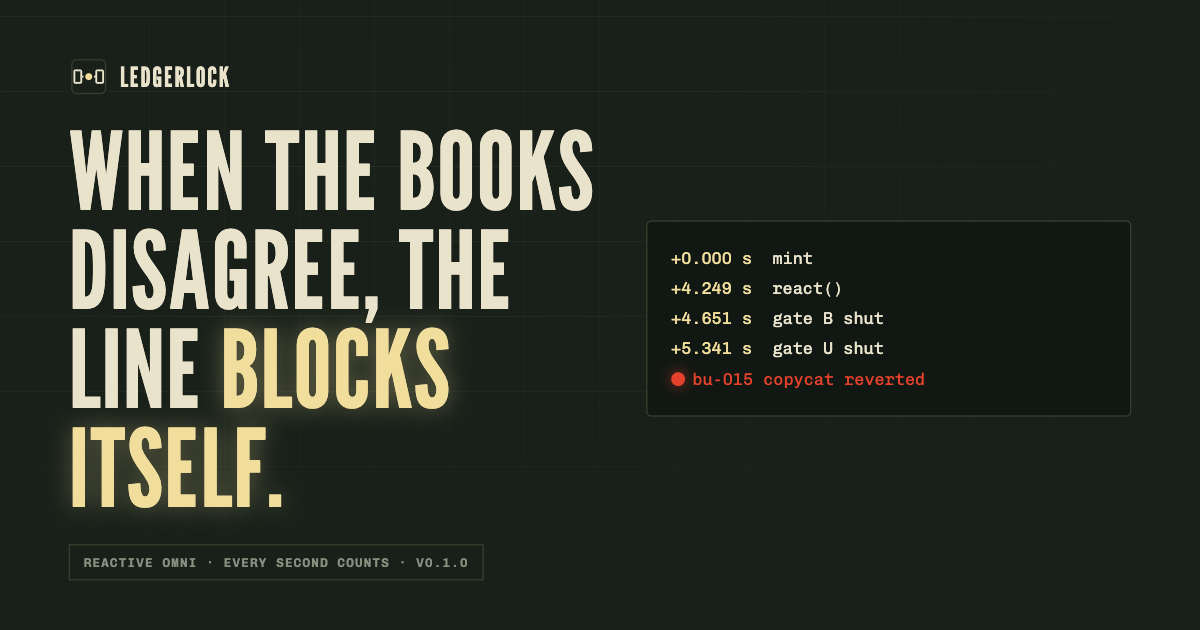
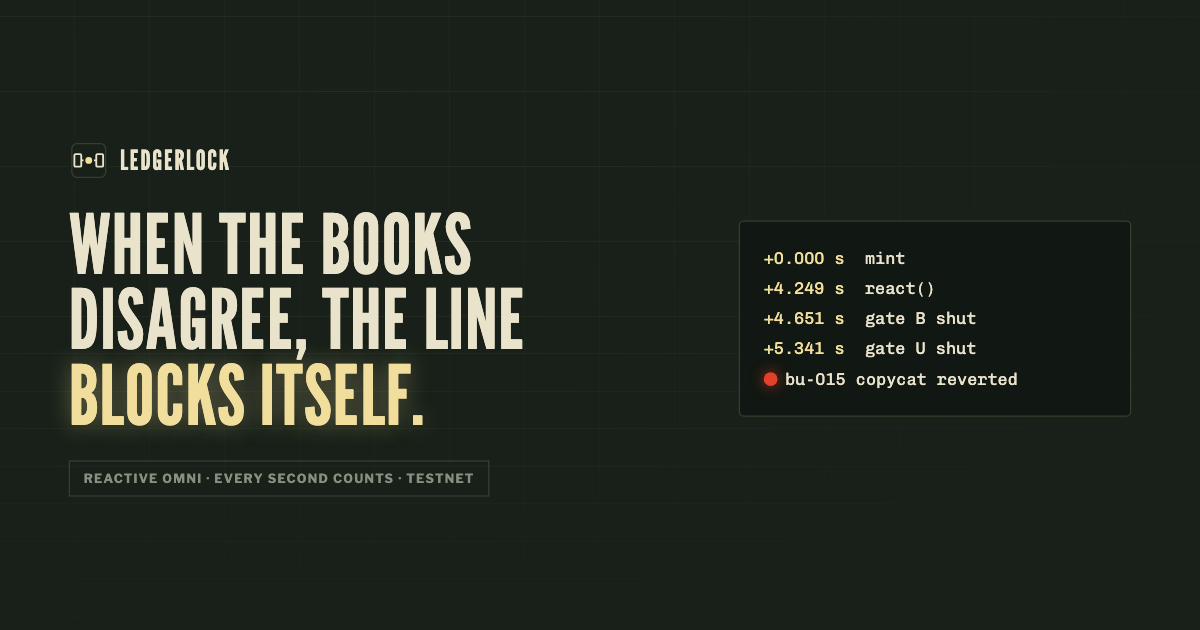
docs: README in the canonical judge-facing layout (Live, For Judges, Deck CTAs; CI + Release badges; Testing & CI with the six stages), current test counts (113 + 29 Solidity, 80 TS, 100% coverage) on README, DEMO, JUDGE and the landing; social card without a version that would go stale

diff --git a/docs/index.html b/docs/index.html
@@ -292,7 +292,7 @@ footer a.ver:hover{color:var(--ink)}
       <a class="btn" href="pitch/">Pitch deck</a>
       <a class="btn" href="status/">Live status page</a>
     </div>
-    <p class="proof rise d4"><span>testnet</span><span>labelled fixture bridge</span><span>no wallet needed to verify</span><span>846 triple rows committed</span><span>83 Foundry tests</span></p>
+    <p class="proof rise d4"><span>testnet</span><span>labelled fixture bridge</span><span>no wallet needed to verify</span><span>846 triple rows committed</span><span>113 Foundry tests</span></p>
 
     <figure class="board rise d5" id="board" aria-labelledby="board-cap">
       <div class="board-head">
@@ -370,7 +370,7 @@ footer a.ver:hover{color:var(--ink)}
 {"attacks":100,"detection":{"n":100,"p50":3.873,"p95":4.391,"max":6.545,"min":2.036},"pause_both":{"n":100,"p50":5.92,"p95":8.245,"max":10.97,"min":3.851},"strict_false":0}
 
 <span class="p">$</span> forge test
-Suite result: ok. 83 passed; 0 failed; 0 skipped<span class="cursor"></span></pre>
+Ran 6 test suites: 113 tests passed, 0 failed, 0 skipped (113 total tests)<span class="cursor"></span></pre>
       </div>
     </div>
     <div class="reg-scroll" tabindex="0" role="region" aria-label="Train register for run bu-015">

diff --git a/docs/judge.html b/docs/judge.html
@@ -202,7 +202,7 @@ footer .ver{font-family:var(--font-data);margin-left:auto}
         <tr><td>Guarded by Ledgerlock</td><td class="n">1</td><td class="n">1,000</td><td class="n">0 (reverted)</td></tr>
       </tbody>
     </table></div>
-    <p class="sub" style="margin-top:14px">The arms use different copycat schedules, so issuance illustrates the effect rather than a like-for-like rate. Tests: <span data-tests>110 contract tests and 29 reactive-kit Solidity tests (100% lines, statements, branches and functions on <code>src/</code> and the kit), 80 TypeScript unit tests at 100%, and one property test that checks 262,144 random queue steps</span>.</p>
+    <p class="sub" style="margin-top:14px">The arms use different copycat schedules, so issuance illustrates the effect rather than a like-for-like rate. Tests: <span data-tests>113 contract tests and 29 reactive-kit Solidity tests (100% lines, statements, branches and functions on <code>src/</code> and the kit), 80 TypeScript unit tests at 100%, and one property test that checks 262,144 random queue steps</span>.</p>
   </div>
 </section>
 

diff --git a/README.md b/README.md
@@ -6,6 +6,9 @@
 
   <br/>
 
+  [![Live Demo](https://img.shields.io/badge/🚀_Live-Demo-06b6d4?style=for-the-badge)](https://edycutjong.github.io/ledgerlock/)
+  [![For Judges](https://img.shields.io/badge/⚖_For-Judges-e4412a?style=for-the-badge)](https://edycutjong.github.io/ledgerlock/judge)
+  [![Pitch Deck](https://img.shields.io/badge/📊_Pitch-Deck-f59e0b?style=for-the-badge)](https://edycutjong.github.io/ledgerlock/pitch/)
   [![Built for Reactive Omni Buildathon](https://img.shields.io/badge/DoraHacks-Reactive_Omni_Buildathon-8b5cf6?style=for-the-badge)](https://dorahacks.io/hackathon/reactive-omni-buildathon/detail)
 
   <br/>
@@ -15,6 +18,9 @@
   ![TypeScript](https://img.shields.io/badge/TypeScript-3178C6?style=flat&logo=typescript&logoColor=white)
   [![License](https://img.shields.io/badge/License-MIT-yellow)](LICENSE)
   [![CI](https://github.com/edycutjong/ledgerlock/actions/workflows/ci.yml/badge.svg)](https://github.com/edycutjong/ledgerlock/actions/workflows/ci.yml)
+  [![Release](https://img.shields.io/github/v/release/edycutjong/ledgerlock?sort=semver)](https://github.com/edycutjong/ledgerlock/releases/latest)
+
+  <p><b>Judging?</b> Start at <a href="https://edycutjong.github.io/ledgerlock/judge">/judge</a> (<a href="JUDGE.md">JUDGE.md</a>): one forged mint, one Lasna <code>react()</code>, both gates paused, the copycat reverted, in six explorer links. No wallet needed.</p>
 
 </div>
 
@@ -81,8 +87,9 @@ Every pause is a triple: origin transaction → Lasna `react()` → gate callbac
 
 | Metric | Value | Source |
 |---|---|---|
-| Foundry tests | 83 passing | `forge test` |
-| reactive-kit tests | 23 passing (Solidity), 6 passing (TS) | `FOUNDRY_PROFILE=kit forge test`, `pnpm test:ts` |
+| Foundry tests | 113 passing; `src/` at 100% lines, statements, branches and functions | `forge test`, `pnpm coverage:sol` |
+| reactive-kit tests | 29 passing (Solidity), 80 passing (TS); both at 100% coverage | `FOUNDRY_PROFILE=kit forge test`, `pnpm test:coverage` |
+| Property test (queue head never rests on a cleared entry) | 262,144 random steps (4,096 runs × 64 ops) | `testFuzz_queue_head_never_rests_on_a_cleared_entry` |
 | Detection (mint mined → Lasna react seen) | p50 3.873 s · p95 4.391 s · max 6.545 s (n=100) | `evidence/frozen3-bench-summary.md` |
 | Pause, Unichain gate | p50 5.917 s · p95 8.245 s (n=100) | same |
 | Pause, Base gate | p50 3.378 s · p95 7.079 s (n=100) | same |
@@ -128,22 +135,46 @@ Lasna's `react()` is polled on a different RPC than the gates, so its first-seen
 ### Installation
 ```bash
 git submodule update --init --recursive && pnpm install
-forge test                       # 83 contract tests (Reactive Test Lib)
+forge test                       # 113 contract tests (Reactive Test Lib)
 pnpm bench:summary               # regenerate the numbers from evidence/frozen3-bench-runs.csv
 ```
 
 Re-running the live bench needs your own funded testnet keys; steps are in [DEMO.md](DEMO.md).
+
+## 🧪 Testing & CI
+
+```bash
+forge test && FOUNDRY_PROFILE=kit forge test   # 113 + 29 Solidity tests on the Reactive Test Lib
+pnpm coverage:sol                               # fails below 100% on src/ or packages/reactive-kit/src
+pnpm typecheck && pnpm test:coverage            # 80 TypeScript unit tests, 100% thresholds enforced
+pnpm e2e                                        # Playwright: landing, /judge, deck, status page, release tag, 375/768/1440 px
+```
+
+Every push and pull request runs a six-stage pipeline (`.github/workflows/ci.yml`):
+
+| Stage | What runs |
+|---|---|
+| 1 · Quality | `forge fmt --check test/`, `forge build --sizes`, both test profiles, the 100% coverage gate; `tsc`, vitest at 100%, and `pnpm bench:summary` must regenerate the committed summary byte for byte |
+| 2 · Security | gitleaks over every commit, Slither (`--fail-high`, two findings triaged in [SECURITY.md](SECURITY.md)), `pnpm audit` |
+| 3 · Build | the Pages site with the latest release tag stamped in and every local link checked |
+| 4 · E2E | Playwright on desktop and mobile Chrome |
+| 5 · Performance | Lighthouse CI (advisory) |
+| 6 · Deploy gate | main only, needs every stage; `pages.yml` then deploys `docs/` |
+
+CodeQL scans the TypeScript and the workflows; Dependabot (grouped, monthly, majors and `lib/` submodules excluded so the deployed bytecode keeps matching the source), secret scanning and push protection are on. The coverage work added tests only: `git diff e425c78 -- src packages/reactive-kit/src` is empty, so the frozen3 contracts still match this source.
 
 ## 📁 Project Structure
 
 | Path | What |
 |---|---|
 | `src/` | `LedgerlockReactive.sol`, `Gate.sol`, `DrillBeacon.sol`, `fixture/` (route A), `probe/` |
-| `packages/reactive-kit/` | shared Omni building blocks, copied unchanged from the same author's Heirloom repo (MIT; see its README) |
+| `packages/reactive-kit/` | shared Omni building blocks; the Solidity and TypeScript sources are copied unchanged from the same author's Heirloom repo (MIT; see its README), the tests beside them were added here |
 | `script/`, `scripts/` | deploy and trigger shell scripts; bench, summary and join scripts |
 | `evidence/` | committed raw rows from live runs; start with `evidence/README.md` |
-| `docs/` | landing page (`index.html`), pitch deck (`pitch/`), read-only status page (`status/`), architecture diagram |
+| `docs/` | landing page (`index.html`), judge page (`judge.html`), pitch deck (`pitch/`), read-only status page (`status/`), architecture diagram |
 | `deployments/testnet.json` | per-route addresses |
+| `test/`, `e2e/` | Foundry tests (Reactive Test Lib) and Playwright tests for the Pages site |
+| `JUDGE.md` | the judge path, mirrored at `/judge` on the Pages site |
 
 ## 📄 License
 

diff --git a/JUDGE.md b/JUDGE.md
@@ -39,7 +39,7 @@ behind it on Base.
 | Bursts | 20 of 20 stopped at the first reverted copycat; at most 1 copycat landed | `evidence/frozen3-burst-verify.csv` |
 | Triples (origin → Lasna `react()` → gate callback) | 846 rows; 500 of 500 callback legs joined; 0 `CallbackFailure` | `evidence/frozen3-triples.csv` |
 | Paired control (5 runs per arm) | unguarded: 6 copycats landed, 3,500 tUSD issued, 500 released · guarded: 1 landed, 1,000 issued, release reverted | `evidence/a0-control-runs.csv` |
-| Tests | 110 contract + 29 reactive-kit Solidity tests (100% lines, statements, branches, functions on `src/` and the kit); 80 TypeScript unit tests at 100%; one property test checks 262,144 random queue steps | `forge test`, `pnpm test:coverage` |
+| Tests | 113 contract + 29 reactive-kit Solidity tests (100% lines, statements, branches, functions on `src/` and the kit); 80 TypeScript unit tests at 100%; one property test checks 262,144 random queue steps | `forge test`, `pnpm test:coverage` |
 
 The control arms use different copycat schedules, so issuance illustrates the effect rather than a like-for-like rate.
 

diff --git a/DEMO.md b/DEMO.md
@@ -58,10 +58,14 @@ owner drills (`DrillBeacon.fire()`), not attacks. Drill pause latencies are in `
 
 ```bash
 forge test
-# Suite result: ok. 83 passed; 0 failed; 0 skipped
+# Ran 6 test suites: 113 tests passed, 0 failed, 0 skipped (113 total tests)
 FOUNDRY_PROFILE=kit forge test
-# 23 tests passed, 0 failed (4 suites)
-pnpm test:ts
+# Ran 6 test suites: 29 tests passed, 0 failed, 0 skipped (29 total tests)
+pnpm test:coverage
+# Tests 80 passed (80) · Statements 100% · Branches 100% · Functions 100% · Lines 100%
+pnpm coverage:sol
+# OK  src/: 100% lines, statements, branches, functions
+# OK  packages/reactive-kit/src: 100% lines, statements, branches, functions
 ```
 
 Named tests that carry the claims (`test/LedgerlockReactive.t.sol`), all `[PASS]`:
